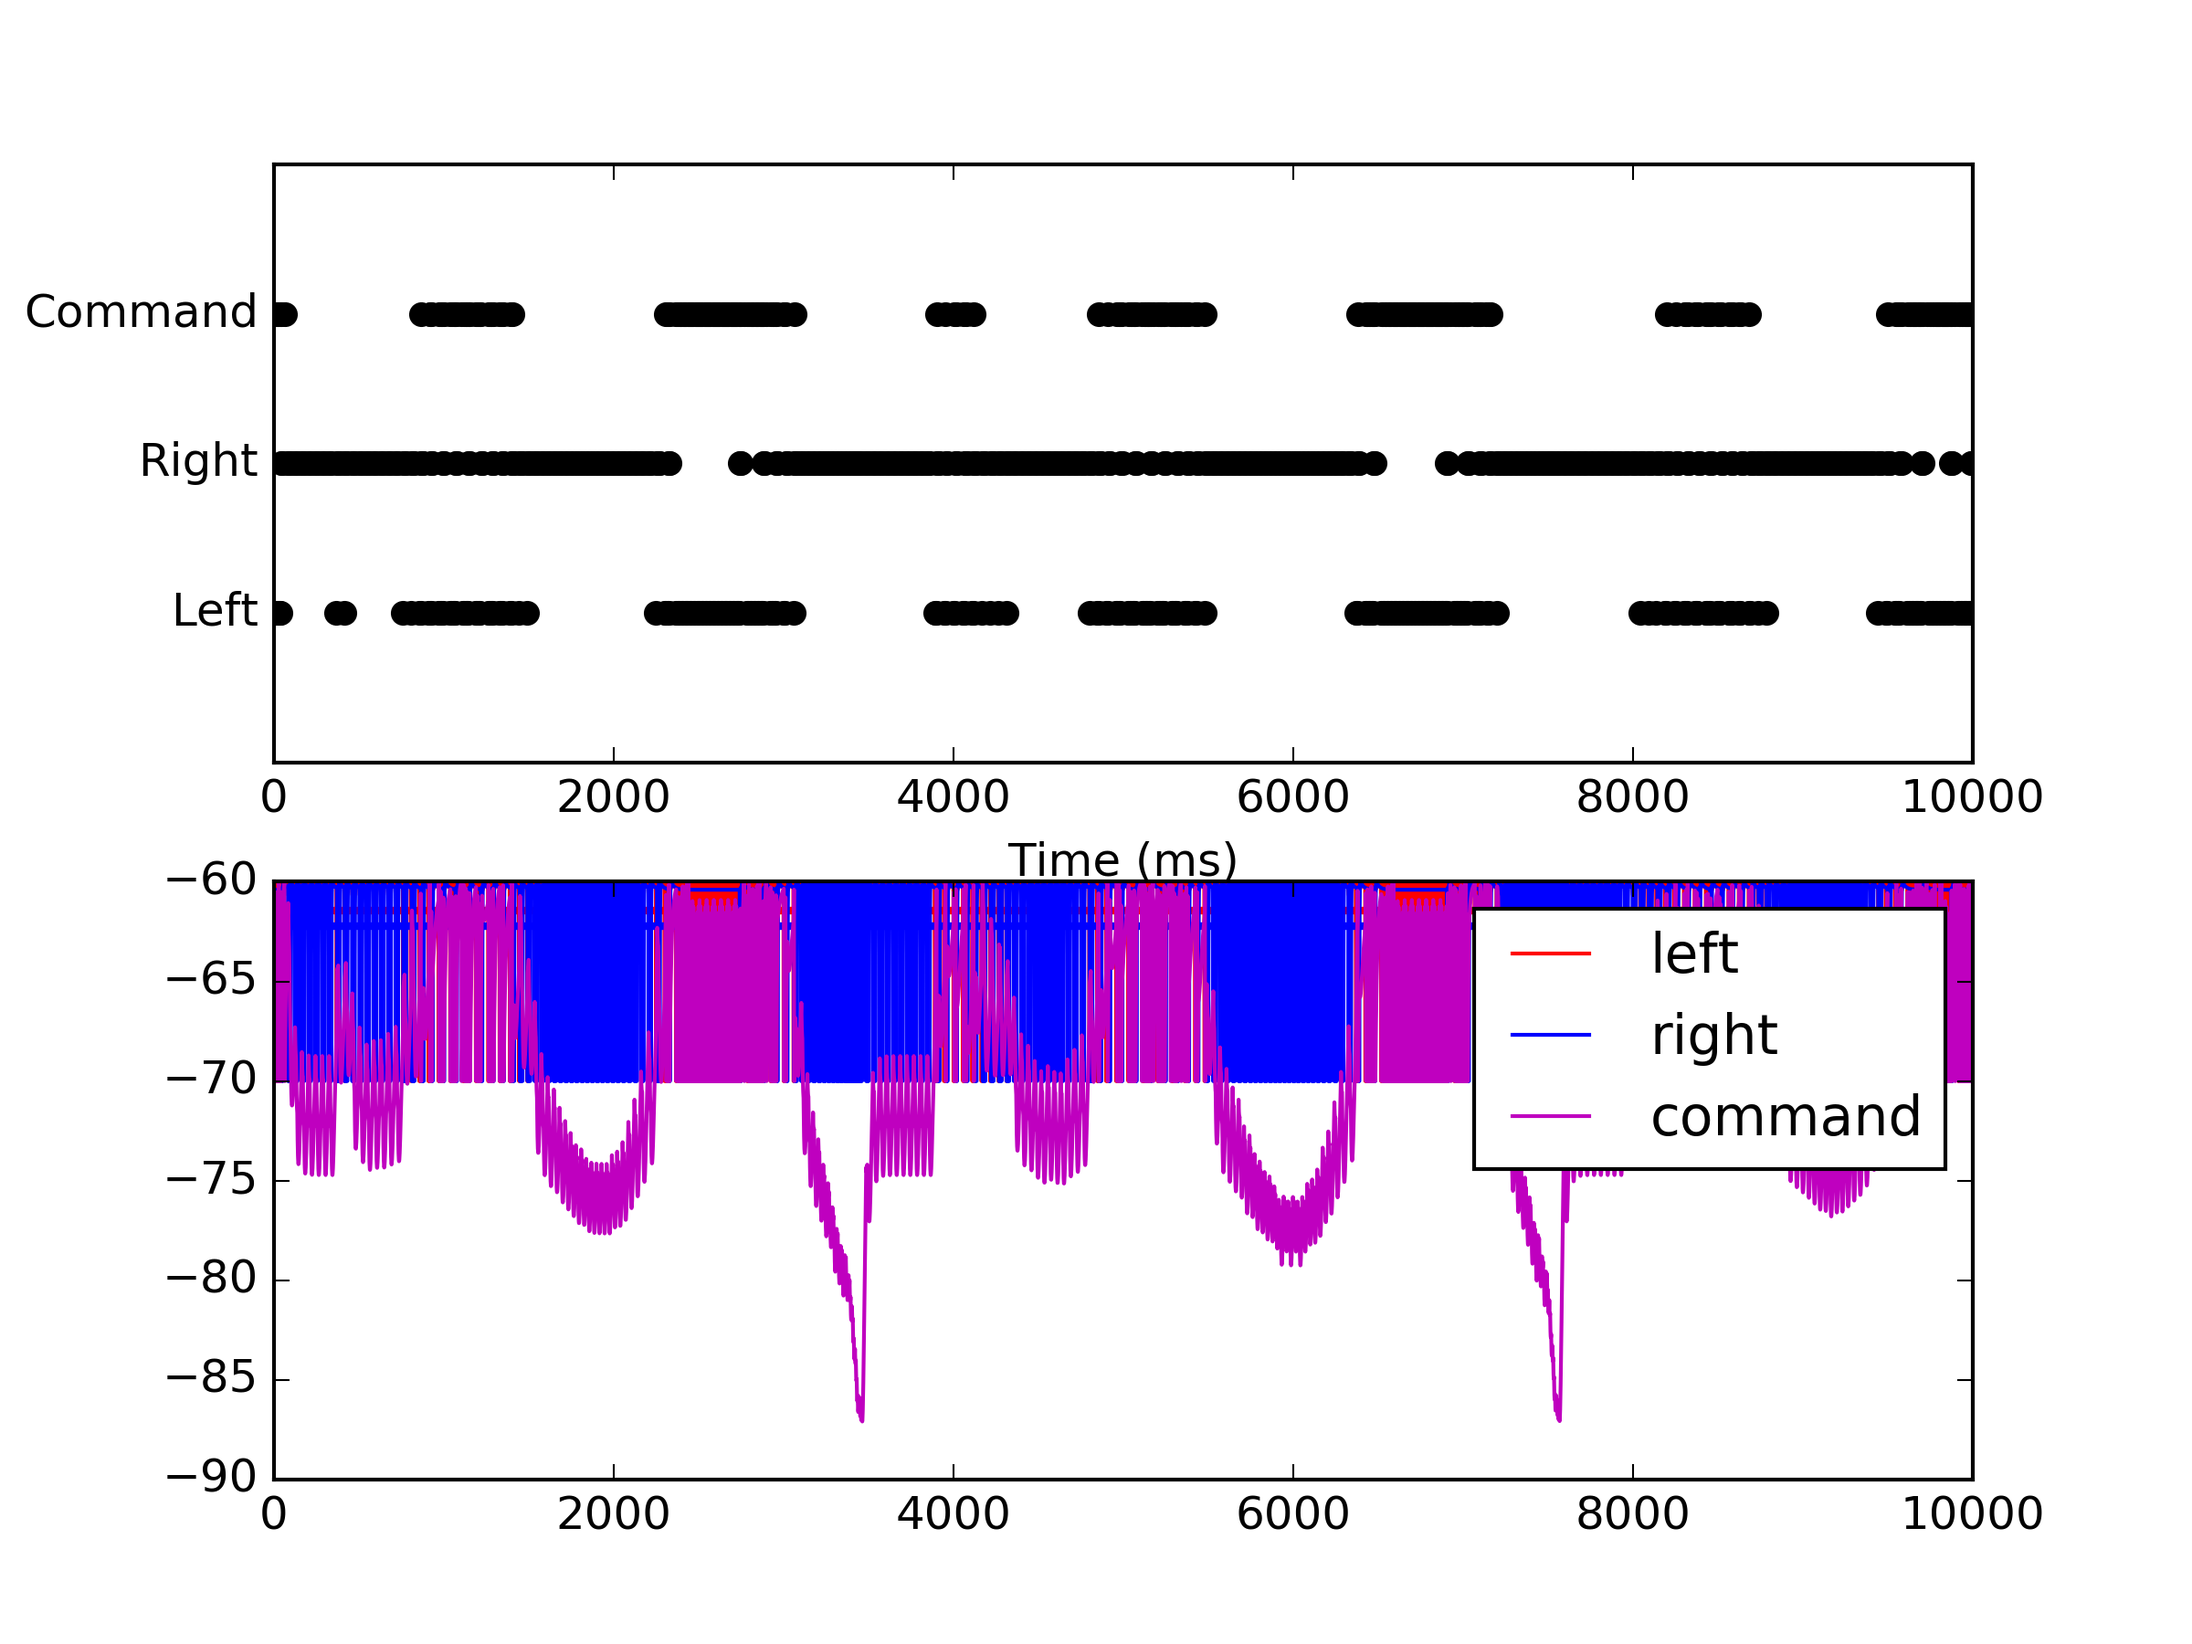
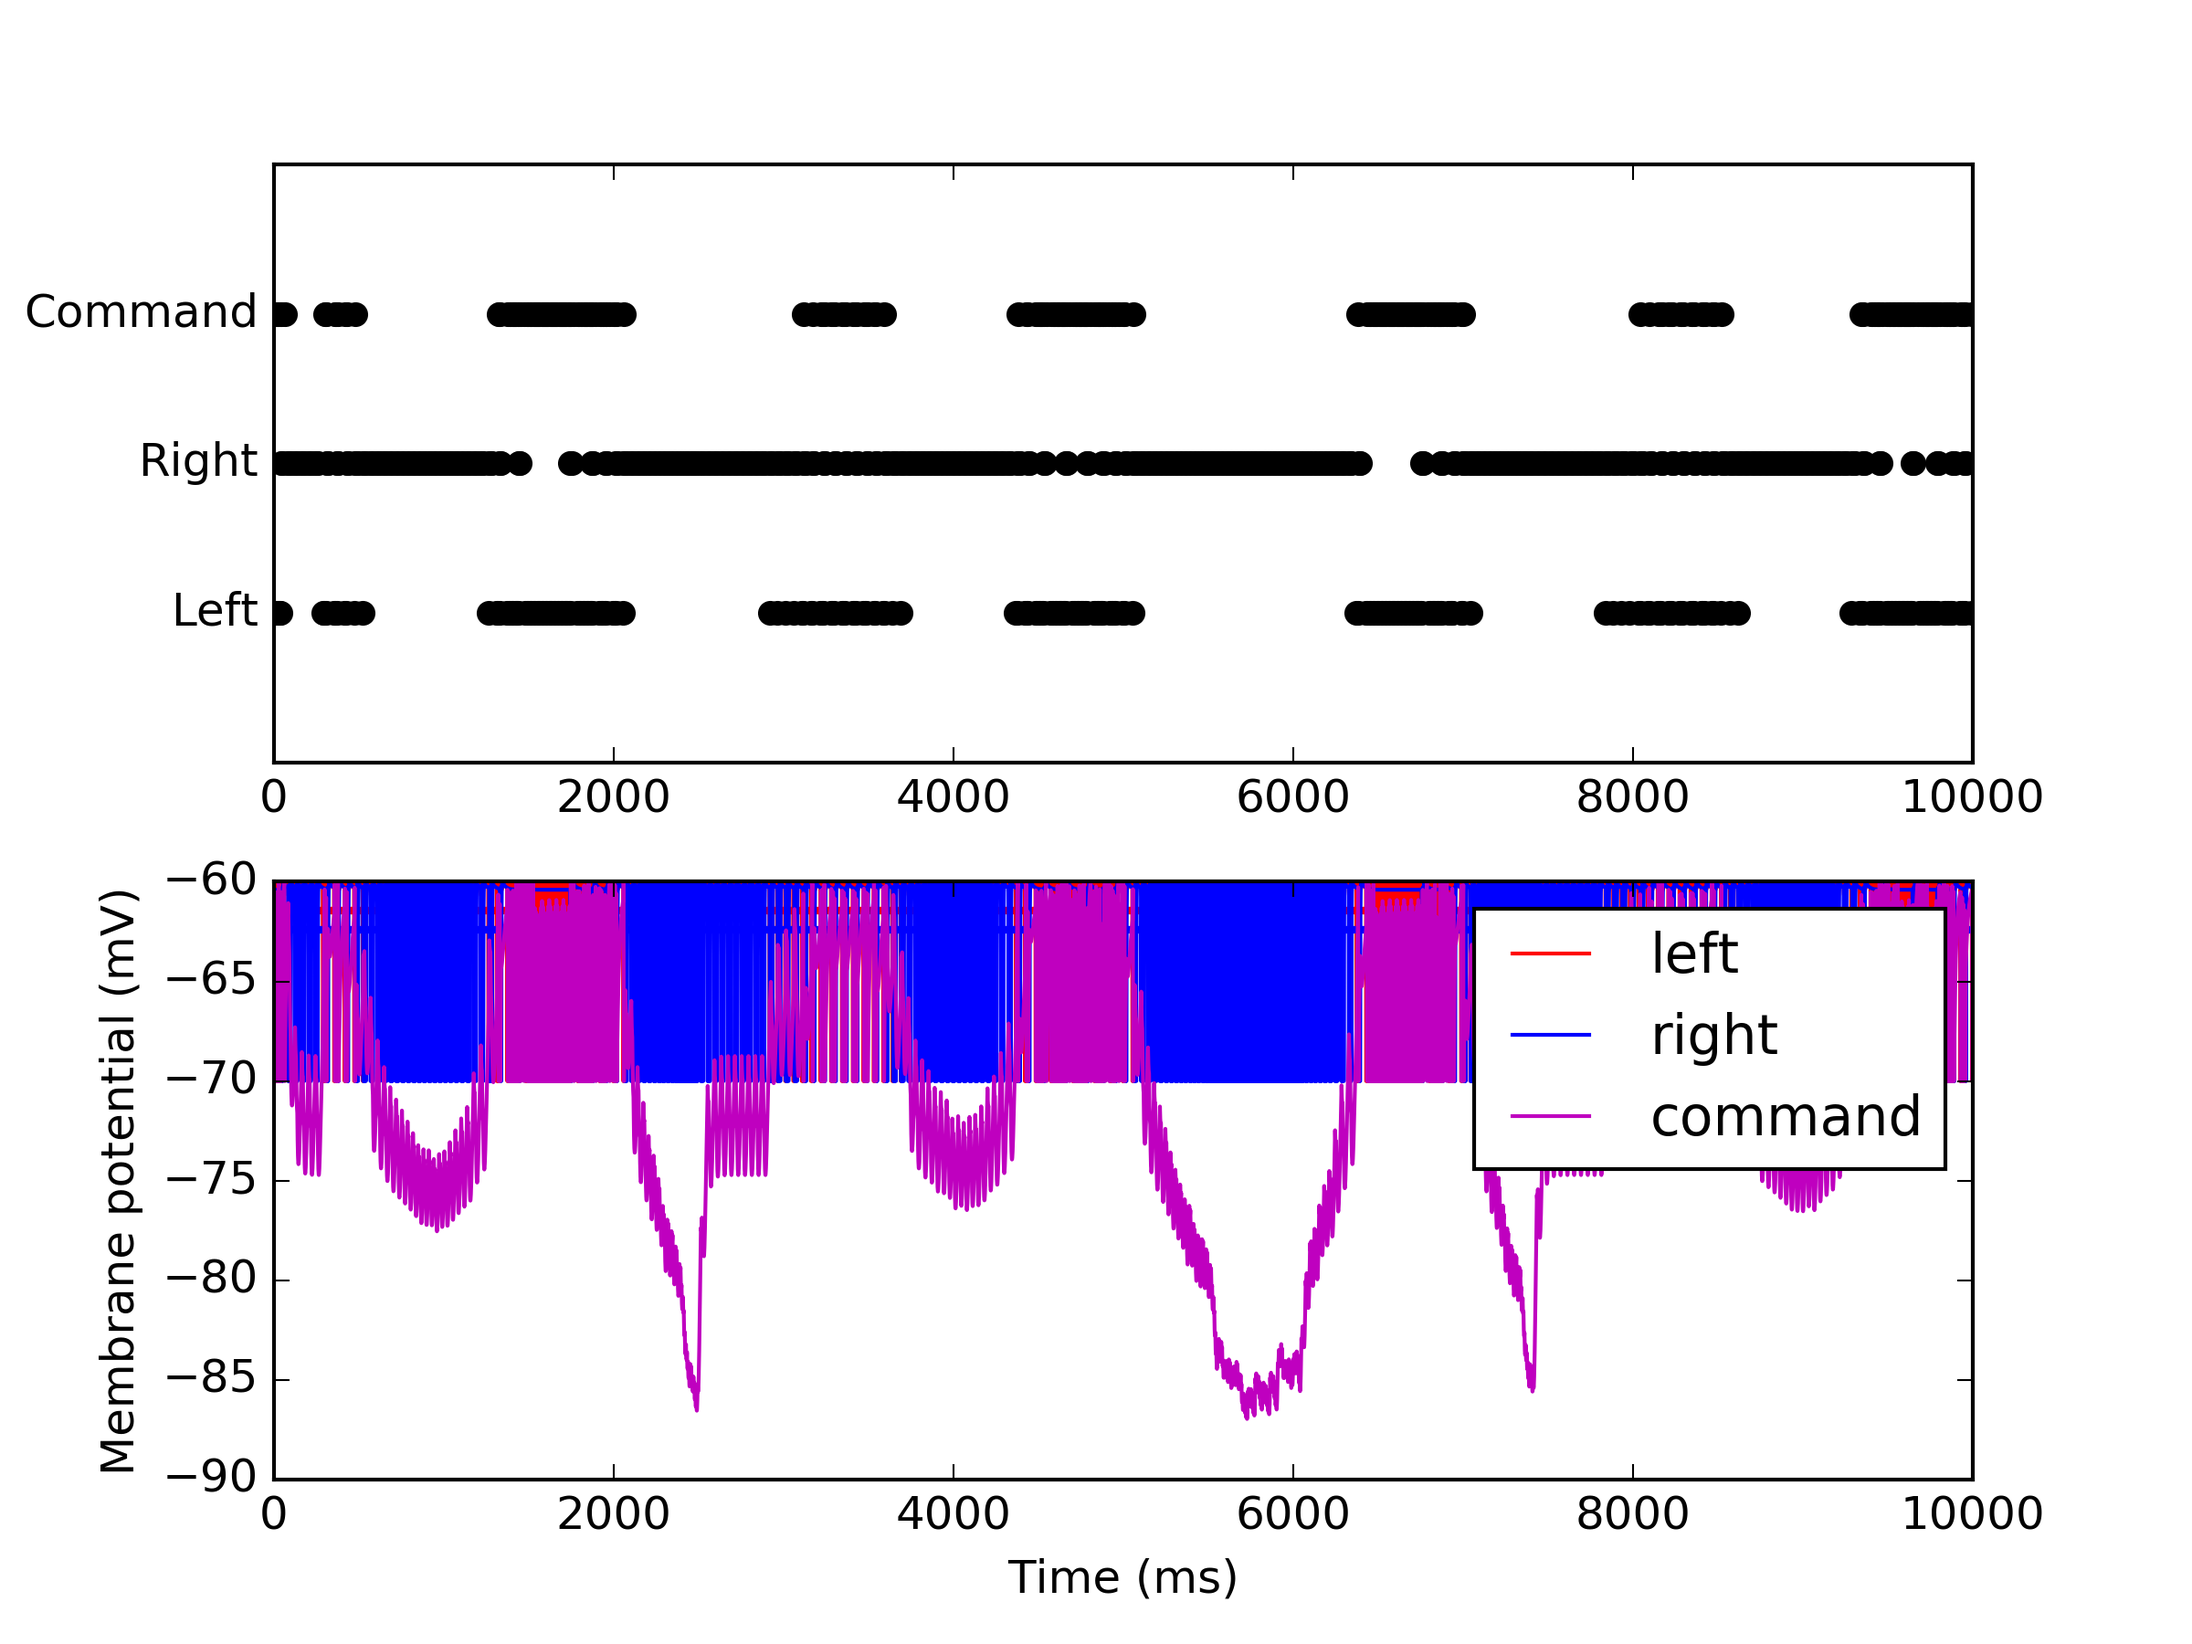
Fix ex4 plot

diff --git a/example4/nest_sim.py b/example4/nest_sim.py
@@ -78,7 +78,6 @@ spikes = nest.GetStatus(sd, 'events')[0]
 
 fig = plt.figure()
 ax = fig.add_subplot(211)
-ax.set_xlabel('Time (ms)')
 ax.set_xlim([0., simtime])
 ax.set_ylim([neuron_left[0] - 1, neuron_command[0] + 1])
 ax.set_yticks([neuron_left[0], neuron_right[0], neuron_command[0]])
@@ -87,6 +86,8 @@ ax.set_yticklabels(['Left', 'Right', 'Command'])
 ax.plot(spikes['times'], spikes['senders'], 'ko')
 
 ax2 = fig.add_subplot(212)
+ax2.set_xlabel('Time (ms)')
+ax2.set_ylabel('Membrane potential (mV)')
 
 vm_left = nest.GetStatus(mv_left, 'events')[0]
 vm_right = nest.GetStatus(mv_right, 'events')[0]
